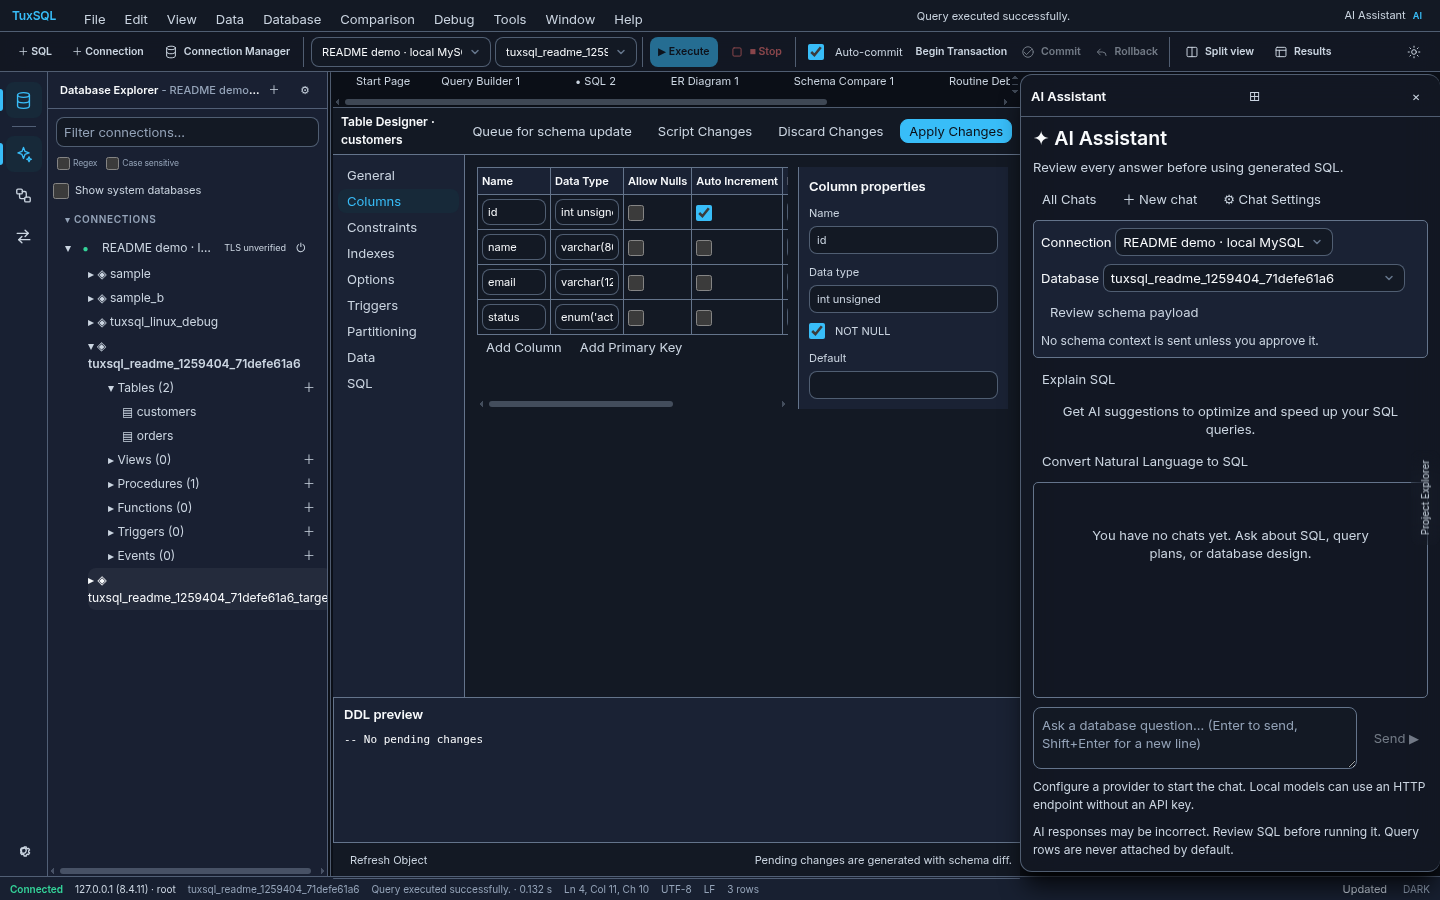
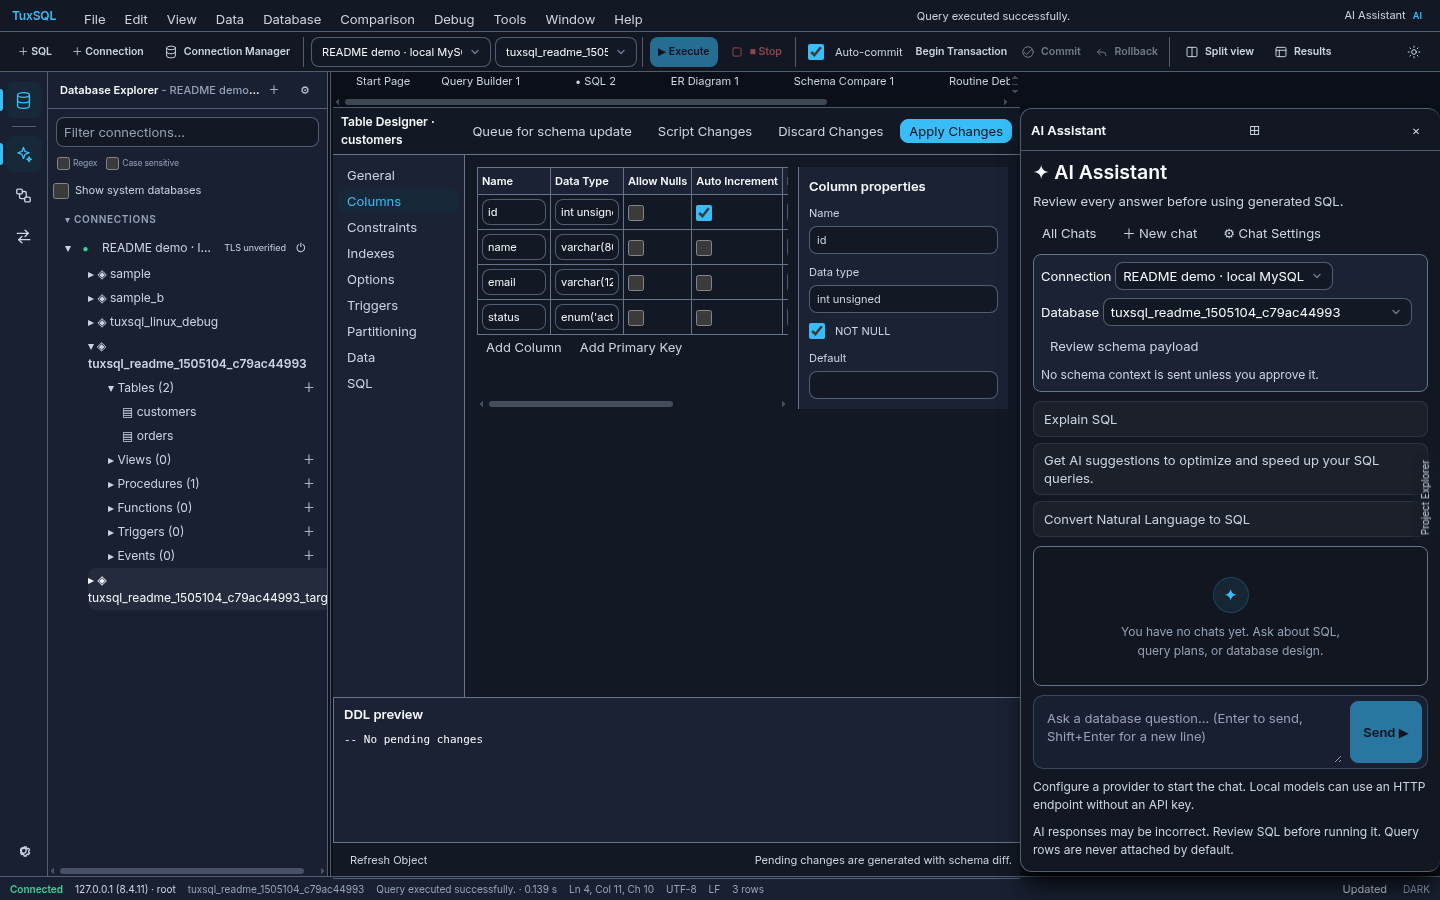
fix(ui): polish the AI assistant dock (action cards, empty state, composer)
Presentation-only CSS: ghost action cards, discreet empty state, outlined composer with
a prominent Send, and the dock no longer overlaps the tab strip. README screenshots
refreshed.

diff --git a/app/src/renderer/src/ui/panels/ai-assistant/Panel.tsx b/app/src/renderer/src/ui/panels/ai-assistant/Panel.tsx
@@ -146,7 +146,7 @@ export default function AiAssistantPanel(): React.JSX.Element {
     {settingsOpen && <div className="ai-overlay"><section role="dialog" aria-modal="true" aria-label={t('panel.ai.assistant.m73b26359c1')} className="ai-settings"><header><h3>{t('panel.ai.assistant.m73b26359c1')}</h3><button onClick={() => setSettingsOpen(false)}>×</button></header><label>{t('panel.ai.assistant.m8b2c909fb2')}<select value={settings.provider} onChange={(event) => setSettings((value) => ({ ...value, provider: event.target.value as AiAssistantSettings['provider'] }))}><option value="openai">{t('panel.ai.assistant.m33647e67c8')}</option><option value="anthropic">{t('panel.ai.assistant.m04689d28fb')}</option><option value="compatible">{t('panel.ai.assistant.m4b0517f70b')}</option><option value="local">{t('panel.ai.assistant.mf51ed27613')}</option></select></label><label>{t('panel.ai.assistant.mb72379e9b0')}<input value={settings.endpoint} onChange={(event) => setSettings((value) => ({ ...value, endpoint: event.target.value }))} placeholder={t('panel.ai.assistant.m7050bdc376')} /></label><label>{t('panel.ai.assistant.mdcfa4b5683')}<input value={settings.model} onChange={(event) => setSettings((value) => ({ ...value, model: event.target.value }))} /></label><label>{t('panel.ai.assistant.m2020b5b28a')}<input type="password" autoComplete="new-password" value={apiKey} onChange={(event) => setApiKey(event.target.value)} placeholder={hasKey ? 'Saved in the secure vault' : settings.provider === 'local' ? 'Not required for local provider' : 'Enter API key'} /></label><div className="ai-setting-grid"><label>{t('panel.ai.assistant.ma905b1d067')}<input type="number" min="0" max="2" step="0.1" value={settings.temperature} onChange={(event) => setSettings((value) => ({ ...value, temperature: Number(event.target.value) }))} /></label><label>{t('panel.ai.assistant.m89283ec1b4')}<input type="number" min="1" max="128000" value={settings.maxTokens} onChange={(event) => setSettings((value) => ({ ...value, maxTokens: Number(event.target.value) }))} /></label><label>{t('panel.ai.assistant.m5d836609e3')}<input type="number" min="500" max="300000" value={settings.timeoutMs} onChange={(event) => setSettings((value) => ({ ...value, timeoutMs: Number(event.target.value) }))} /></label></div><p className="ai-vault-note">{t('panel.ai.assistant.m37b85ca5b5')}</p><div className="ai-settings-actions"><button disabled={settingsBusy} onClick={() => void testSettings()}>{t('panel.ai.assistant.m1ca271a920')}</button><button disabled={settingsBusy} onClick={() => void saveSettings()}>{t('panel.ai.assistant.m27c0fd4f48')}</button></div>{settingsMessage && <p role="status">{settingsMessage}</p>}</section></div>}
     {schemaReview && <div className="ai-overlay"><section role="dialog" aria-modal="true" aria-label={t('panel.ai.assistant.m1e1f33802a')} className="ai-payload"><header><h3>{t('panel.ai.assistant.mccc23836cc')}</h3><button onClick={() => setSchemaReview(null)}>×</button></header><p>{t('panel.ai.assistant.mf8f701a90f')}</p><pre>{safeSchemaPreview}</pre><footer><button onClick={() => setSchemaReview(null)}>{t('common.cancel')}</button><button onClick={() => { setApprovedSchema(schemaReview); setSchemaReview(null) }}>{t('panel.ai.assistant.m93ff5605f3')}</button></footer></section></div>}
     {insertSql && <div className="ai-overlay"><section role="dialog" aria-modal="true" aria-label={t('panel.ai.assistant.md94e4e6dd2')} className="ai-payload"><h3>{t('panel.ai.assistant.m165cf39ad2')}</h3><p>{t('panel.ai.assistant.m792b6bc268')}</p><pre>{insertSql}</pre><footer><button onClick={() => setInsertSql('')}>{t('common.cancel')}</button><button onClick={confirmInsert}>{t('panel.ai.assistant.m3e51529cca')}</button></footer></section></div>}
-    <style>{`.ai-panel{height:100%;display:flex;flex-direction:column;gap:9px;color:var(--text);position:relative}.ai-header,.ai-header>div,.ai-context,.ai-actions,.ai-composer,.ai-settings header,.ai-settings-actions,.ai-payload footer{display:flex;align-items:center;gap:8px;flex-wrap:wrap}.ai-header{justify-content:space-between}.ai-header h2{margin:0}.ai-header p{margin:3px 0;color:var(--text-secondary)}.ai-context{padding:7px;background:var(--bg-surface-alt);border:1px solid var(--border);border-radius:5px}.ai-context span{color:var(--text-secondary);font-size:12px}.ai-schema-chip{color:var(--accent)!important}.ai-thread{flex:1;min-height:180px;overflow:auto;padding:8px;border:1px solid var(--border);border-radius:5px}.ai-empty{text-align:center;color:var(--text-secondary);padding:35px}.ai-message{max-width:92%;padding:9px 11px;margin:8px 0;border-radius:8px;background:var(--bg-surface-alt);white-space:pre-wrap;overflow-wrap:anywhere}.ai-message strong{display:block;margin-bottom:5px}.ai-user{margin-left:auto;background:var(--bg-hover)}.ai-code{background:var(--bg);border:1px solid var(--border);padding:8px;overflow:auto;white-space:pre}.ai-thinking{color:var(--text-secondary)}.ai-error{color:var(--danger,#c43131)}.ai-composer{align-items:stretch}.ai-composer textarea{flex:1;min-height:62px;resize:vertical;background:var(--bg-surface);color:var(--text);border:1px solid var(--border);padding:8px}.ai-disclaimer,.ai-note,.ai-vault-note{font-size:12px;color:var(--text-secondary);margin:0}.ai-chat-list{display:flex;gap:4px;overflow:auto}.ai-chat-list button.selected{color:var(--accent)}.ai-overlay{position:absolute;inset:0;z-index:20;display:grid;place-items:center;background:#0007;padding:16px}.ai-settings,.ai-payload{width:min(640px,95%);max-height:90%;overflow:auto;padding:16px;background:var(--bg-surface);border:1px solid var(--border);border-radius:7px;box-shadow:0 12px 36px #0005}.ai-settings header{justify-content:space-between}.ai-settings h3,.ai-payload h3{margin:0}.ai-settings>label{display:flex;flex-direction:column;gap:4px;margin:9px 0}.ai-settings input,.ai-settings select{background:var(--bg);color:var(--text);border:1px solid var(--border);padding:6px}.ai-setting-grid{display:grid;grid-template-columns:repeat(3,1fr);gap:8px}.ai-setting-grid label{display:flex;flex-direction:column;gap:4px}.ai-settings-actions{justify-content:flex-end;margin-top:10px}.ai-payload pre{max-height:46vh;overflow:auto;padding:10px;background:var(--bg);white-space:pre-wrap;overflow-wrap:anywhere}.ai-payload footer{justify-content:flex-end}`}</style>
+    <style>{`.ai-panel{height:100%;min-height:0;display:flex;flex-direction:column;gap:9px;color:var(--text);position:relative;overflow:hidden}.ai-header,.ai-header>div,.ai-context,.ai-actions,.ai-composer,.ai-settings header,.ai-settings-actions,.ai-payload footer{display:flex;align-items:center;gap:8px;flex-wrap:wrap}.ai-header{justify-content:space-between;flex:0 0 auto}.ai-header h2{margin:0}.ai-header p{margin:3px 0;color:var(--text-secondary)}.ai-context{flex:0 0 auto;padding:7px;background:var(--bg-surface-alt);border:1px solid var(--border);border-radius:8px}.ai-context span{color:var(--text-secondary);font-size:12px}.ai-schema-chip{color:var(--accent)!important}.ai-actions{flex:0 0 auto;flex-direction:column;align-items:stretch;gap:6px}.app-shell .ai-panel .ai-actions button:not(.button-primary){width:100%;min-height:36px;justify-content:flex-start;padding:7px 10px;text-align:left;border:1px solid color-mix(in srgb,var(--border-control) 24%,transparent);border-radius:8px;background:color-mix(in srgb,var(--text-primary) 4%,transparent);color:var(--text-secondary);transition:color 140ms ease,background-color 140ms ease,border-color 140ms ease}.app-shell .ai-panel .ai-actions button:not(.button-primary):hover:not(:disabled){border-color:color-mix(in srgb,var(--accent) 34%,var(--border-control));background:color-mix(in srgb,var(--accent) 8%,var(--bg-surface));color:var(--text-primary)}.ai-thread{flex:1 1 auto;min-height:100px;overflow:auto;padding:8px;border:1px solid var(--border);border-radius:8px;background:color-mix(in srgb,var(--bg-surface) 72%,var(--bg-app))}.ai-thread:has(.ai-empty){overflow:hidden}.ai-empty{max-width:270px;margin:auto;text-align:center;color:var(--text-tertiary);padding:22px 16px;font-size:12px;line-height:1.55}.ai-empty::before{content:"✦";display:grid;place-items:center;width:34px;height:34px;margin:0 auto 10px;border:1px solid color-mix(in srgb,var(--accent) 20%,transparent);border-radius:50%;background:color-mix(in srgb,var(--accent) 8%,var(--bg-surface));color:var(--accent);font-size:17px}.ai-message{max-width:92%;padding:9px 11px;margin:8px 0;border-radius:8px;background:var(--bg-surface-alt);white-space:pre-wrap;overflow-wrap:anywhere}.ai-message strong{display:block;margin-bottom:5px}.ai-user{margin-left:auto;background:var(--bg-hover)}.ai-code{background:var(--bg);border:1px solid var(--border);padding:8px;overflow:auto;white-space:pre}.ai-thinking{color:var(--text-secondary)}.ai-error{color:var(--danger,#c43131)}.ai-composer{flex:0 0 auto;align-items:stretch;padding:5px;border:1px solid color-mix(in srgb,var(--border-control) 48%,transparent);border-radius:10px;background:color-mix(in srgb,var(--bg-surface-alt) 72%,var(--bg-surface));transition:border-color 140ms ease,box-shadow 140ms ease}.ai-composer:focus-within{border-color:var(--accent);box-shadow:0 0 0 3px color-mix(in srgb,var(--accent) 12%,transparent)}.ai-composer textarea{flex:1;min-height:62px;resize:vertical;background:transparent;color:var(--text);border:0;border-radius:6px;padding:8px;box-shadow:none}.app-shell .ai-panel .ai-composer>button:first-of-type{align-self:stretch;min-width:72px;border:1px solid var(--accent);border-radius:8px;background:var(--accent);color:var(--text-on-accent);font-weight:650;box-shadow:var(--shadow-xs);transition:filter 140ms ease,opacity 140ms ease}.app-shell .ai-panel .ai-composer>button:first-of-type:hover:not(:disabled){filter:brightness(.94)}.app-shell .ai-panel .ai-composer>button:first-of-type:disabled{opacity:.56}.ai-disclaimer,.ai-note,.ai-vault-note{font-size:12px;color:var(--text-secondary);margin:0}.ai-chat-list{display:flex;gap:4px;overflow:auto}.ai-chat-list button.selected{color:var(--accent)}.ai-overlay{position:absolute;inset:0;z-index:20;display:grid;place-items:center;background:#0007;padding:16px}.ai-settings,.ai-payload{width:min(640px,95%);max-height:90%;overflow:auto;padding:16px;background:var(--bg-surface);border:1px solid var(--border);border-radius:7px;box-shadow:0 12px 36px #0005}.ai-settings header{justify-content:space-between}.ai-settings h3,.ai-payload h3{margin:0}.ai-settings>label{display:flex;flex-direction:column;gap:4px;margin:9px 0}.ai-settings input,.ai-settings select{background:var(--bg);color:var(--text);border:1px solid var(--border);padding:6px}.ai-setting-grid{display:grid;grid-template-columns:repeat(3,1fr);gap:8px}.ai-setting-grid label{display:flex;flex-direction:column;gap:4px}.ai-settings-actions{justify-content:flex-end;margin-top:10px}.ai-payload pre{max-height:46vh;overflow:auto;padding:10px;background:var(--bg);white-space:pre-wrap;overflow-wrap:anywhere}.ai-payload footer{justify-content:flex-end}`}</style>
   </section>
 }
 

diff --git a/app/src/renderer/src/ui/workbench-v2.css b/app/src/renderer/src/ui/workbench-v2.css
@@ -220,8 +220,9 @@ body { background: var(--bg-app); }
   padding: 4px 8px 0;
   border-bottom-color: var(--workbench-line);
   background: var(--bg-app);
-  scrollbar-width: thin;
+  scrollbar-width: none;
 }
+.app-shell .document-tab-strip::-webkit-scrollbar { display: none; width: 0; height: 0; }
 .document-tab {
   position: relative;
   gap: 2px;
@@ -404,6 +405,7 @@ body { background: var(--bg-app); }
 .dialog-footer { min-height: 50px; }
 .project-explorer-dock,
 .right-dock { border-color: var(--workbench-line); border-radius: 12px; background: var(--workbench-glass); backdrop-filter: blur(18px) saturate(1.1); box-shadow: var(--shadow-overlay); }
+.right-dock.dock-right:has(> .ai-panel) { top: calc(32px + var(--workbench-toolbar-height) + 36px); }
 .right-dock > header,
 .project-explorer-dock > header { min-height: 42px; padding: 6px 10px; border-bottom-color: var(--workbench-line); }
 .project-explorer-tab { top: 50%; right: 0; min-height: 32px; padding: 9px 5px; border: 1px solid var(--workbench-line); border-right: 0; border-radius: 7px 0 0 7px; background: var(--workbench-glass); box-shadow: -4px 0 14px rgb(0 0 0 / .10); backdrop-filter: blur(12px); font-size: 10px; }
